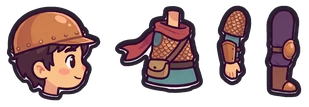
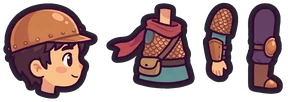
Painted iron, frostsilver, inkstone and emberite armour
All six metals now have painted armour. Pieces are cut out along their
closed ink outline (keeps pale chainmail that matches the background
grey, drops borders, shadows and ghost blobs) and picked by the piece
holding each joint point, which now use whole-render coordinates. A
piece a set lacks falls back to tinting the plain part: the emberite
greaves until that leg is regenerated.

Claude-Session: https://claude.ai/code/session_011STHFHW1H3N9pF5E9tv6GM

Changed region(s): [[0.0, 0.0294, 1.0, 0.9706]]

diff --git a/index.html b/index.html
@@ -1119,15 +1119,19 @@ const PAINT={armor:{}};
 // player_parts_mask.webp marks what armour recolours (tunic, trousers and boots, helmet metal). Frames are 2x the 96x144 code frames.
 const RIG={head:[0,0,108,107,52.8,93.4],torso:[110,0,101,98,62.3,16.0],arm:[213,0,43,91,19.9,12.9],leg:[258,0,49,103,22.3,14.4],helm:[309,0,73,81,6.6,6.6]};
 // armor_<metal>.webp: that metal's set drawn on the character (head wearing the helmet, torso, arm, leg), same layout as RIG;
-// a slot whose metal has no painted set tints the plain parts instead
-const ARMOR_RIG={cu:{head:[0,0,107,107,50.9,93.1],torso:[109,0,100,99,65.2,16.6],arm:[211,0,46,91,25.6,14.2],leg:[259,0,48,103,23.9,15.0]},
-  au:{head:[0,0,111,123,65.2,108.7],torso:[113,0,100,99,64.2,16.8],arm:[215,0,45,91,25.4,14.7],leg:[262,0,53,103,25.7,15.6]}};
+// a piece whose metal has no painted version tints the plain part instead
+const ARMOR_RIG={cu:{head:[0,0,101,102,48.1,91.3],torso:[103,0,95,92,63.1,14.3],arm:[200,0,41,85,23.1,12.0],leg:[243,0,43,97,21.2,12.8]},
+  au:{head:[0,0,105,116,62.3,106.2],torso:[107,0,94,92,61.4,14.3],arm:[203,0,40,85,22.7,12.1],leg:[245,0,48,97,22.9,13.1]},
+  fe:{head:[0,0,94,110,42.1,99.6],torso:[96,0,95,92,61.4,13.6],arm:[193,0,37,84,23.6,11.9],leg:[232,0,47,97,22.4,12.7]},
+  fr:{head:[0,0,90,119,44.7,110.4],torso:[92,0,98,92,59.5,13.1],arm:[192,0,42,84,31.4,12.2],leg:[236,0,45,97,20.0,12.3]},
+  ik:{head:[0,0,90,102,44.5,92.2],torso:[92,0,97,92,63.5,12.7],arm:[191,0,41,85,22.4,12.0],leg:[234,0,46,97,22.6,12.6]},
+  em:{head:[0,0,88,118,42.1,108.1],torso:[90,0,80,92,48.1,13.6],arm:[172,0,42,85,24.9,12.0]}}; // no emberite leg yet
 function paintedPlayer(eq,met){const P=PAINT.player,c=mk(192*9,288),g=c.getContext('2d');
-  const piece=(k,slot,dark)=>{const m=slot&&met[slot],A=m&&PAINT.armor[m],r=(A?ARMOR_RIG[m]:RIG)[k],[x,y,w,h]=r,p=mk(w,h),q=p.getContext('2d');q.drawImage(A||P.img,x,y,w,h,0,0,w,h);
+  const piece=(k,slot,dark)=>{const m=slot&&met[slot],R=m&&PAINT.armor[m]&&ARMOR_RIG[m][k],A=R&&PAINT.armor[m],r=R||RIG[k],[x,y,w,h]=r,p=mk(w,h),q=p.getContext('2d');q.drawImage(A||P.img,x,y,w,h,0,0,w,h);
     const col=!A&&slot&&eq[slot];
     if(col){const t=mk(w,h),u=t.getContext('2d');u.drawImage(P.mask,x,y,w,h,0,0,w,h);u.globalCompositeOperation='source-in';u.fillStyle=col;u.fillRect(0,0,w,h);q.globalCompositeOperation='color';q.drawImage(t,0,0);}
     if(dark){q.globalCompositeOperation='source-atop';q.fillStyle='rgba(42,33,48,.28)';q.fillRect(0,0,w,h);}p.px=r[4];p.py=r[5];return p;};
-  const setHelm=met.helm&&PAINT.armor[met.helm];
+  const setHelm=met.helm&&PAINT.armor[met.helm]&&ARMOR_RIG[met.helm].head;
   const head=setHelm?piece('head','helm'):piece('head'),torso=piece('torso','mail'),armA=piece('arm','mail'),armB=piece('arm','mail',1),legA=piece('leg','greaves'),legB=piece('leg','greaves',1),helm=eq.helm&&!setHelm&&piece('helm','helm');
   const put=(t,p,k,x,y,a)=>{t.save();t.translate(x,y);t.rotate(a||0);t.drawImage(p,-p.px,-p.py);t.restore();};
   const fr=mk(192,288),h=fr.getContext('2d'),sil=mk(192,288),s=sil.getContext('2d');

diff --git a/tools/art/build.py b/tools/art/build.py
@@ -125,33 +125,43 @@ def tintmask(k, im):
     else: m = np.zeros_like(al)
     return m & al
 
-def inked_pieces(img, n=4, bw=30):
-    """Split a parts sheet into its n pieces, left to right, by filling each closed ink outline and adding the border back.
-    Ignores the blurry ghost blobs image models sometimes add, since they have no ink outline."""
-    a = np.asarray(img.convert('RGB')).astype(int)
-    bg = np.median(np.concatenate([a[0], a[-1], a[:, 0], a[:, -1]]), axis=0)
-    fg = np.abs(a - bg).max(axis=2) >= 16; ink = a.max(axis=2) < 90
+def inked_pieces(img, n=4, grow=2):
+    """Split a parts sheet into its n pieces, left to right, each cut out as exactly its filled ink outline (plus a couple of
+    pixels of anti-aliasing), since restyle() replaces everything outside the ink anyway. This ignores the render's border,
+    its soft shadows and the blurry ghost blobs image models sometimes add, and keeps pale fills (chainmail) that are close
+    to the background grey. Returns (piece, (x, y) of its top-left in the render)."""
+    a = np.asarray(img.convert('RGB')).astype(int); ink = a.max(axis=2) < 90
     core = ndimage.binary_fill_holes(ndimage.binary_closing(ink, iterations=2))
     lab, m = ndimage.label(core); sz = ndimage.sum(core, lab, range(1, m + 1)); out = []
     for k in np.argsort(-sz)[:n] + 1:
-        mask = ndimage.binary_fill_holes(ndimage.binary_dilation(lab == k, iterations=bw) & fg)
+        mask = ndimage.binary_dilation(lab == k, iterations=grow)
         ys, xs = np.where(mask); sl = (slice(ys.min(), ys.max() + 1), slice(xs.min(), xs.max() + 1))
-        out.append((xs.min(), Image.fromarray(np.dstack([a.astype(np.uint8), (mask * 255).astype(np.uint8)])[sl], 'RGBA')))
-    return [im for _, im in sorted(out, key=lambda t: t[0])]
+        out.append(((xs.min(), ys.min()), Image.fromarray(np.dstack([a.astype(np.uint8), (mask * 255).astype(np.uint8)])[sl], 'RGBA')))
+    return [(im, o) for o, im in sorted(out, key=lambda t: t[0][0])]
 
-# joint points per armour render, in its piece-local source px (neck base, neck top, shoulder, hip); a new render needs its own
-ARMOR_PIV = {'cu': {'head': (258, 505), 'torso': (356, 60), 'arm': (125, 50), 'leg': (114, 55)},
-             'au': {'head': (335, 585), 'torso': (343, 60), 'arm': (118, 50), 'leg': (117, 55)}}
-BASE_H = {'head': 669, 'torso': 608, 'arm': 553, 'leg': 643}  # base part heights in parts.png, so armour pieces match their size
+# joint points per armour render, in whole-render px (neck base, neck top, shoulder, hip); a new render needs its own
+ARMOR_PIV = {'cu': {'head': (331, 749), 'torso': (954, 371), 'arm': (1313, 368), 'leg': (1604, 354)},
+             'au': {'head': (369, 752), 'torso': (950, 371), 'arm': (1369, 383), 'leg': (1713, 375)},
+             'fe': {'head': (290, 760), 'torso': (945, 335), 'arm': (1378, 350), 'leg': (1680, 345)},
+             'fr': {'head': (375, 780), 'torso': (1000, 353), 'arm': (1440, 365), 'leg': (1678, 322)},
+             'ik': {'head': (350, 760), 'torso': (985, 360), 'arm': (1380, 375), 'leg': (1698, 360)},
+             'em': {'head': (372, 760), 'torso': (985, 350), 'arm': (1365, 350)}}  # emberite leg: the render's boot has no outline; regenerate it
+HEAD_FIX = {'fe': 1.15}  # renders that drew the head small for the torso
+BASE_H = {'head': 625, 'torso': 563, 'arm': 509, 'leg': 598}  # base part heights inside their ink outline in parts.png, so armour pieces match their size
 
 def armor(img, m):
     """armor_<m>.webp: helmeted head, torso, arm, leg (ink only, no tint mask); prints the ARMOR_RIG entry."""
-    x = 0; pieces = []; rows = []; ps = inked_pieces(img); st = PART_S * BASE_H['torso'] / ps[1].height
-    for k, im in zip(('head', 'torso', 'arm', 'leg'), ps):
-        s = st * 1.04 if k == 'head' else PART_S * BASE_H[k] / im.height  # heads by the torso's scale: crests and plumes vary in height
+    ks = [k for k in ('head', 'torso', 'arm', 'leg') if k in ARMOR_PIV[m]]  # a piece left out falls back to the tinted plain part
+    cand = inked_pieces(img, 8)
+    def owner(pt):  # the piece whose box holds this joint point (the leg can be bigger or smaller than a ghost blob)
+        return min(cand, key=lambda c: max(c[1][0] - pt[0], pt[0] - c[1][0] - c[0].width, c[1][1] - pt[1], pt[1] - c[1][1] - c[0].height))
+    ps = [owner(ARMOR_PIV[m][k]) for k in ks]
+    x = 0; pieces = []; rows = []; st = PART_S * BASE_H['torso'] / ps[1][0].height
+    for k, (im, (ox, oy)) in zip(ks, ps):
+        s = st * 1.04 * HEAD_FIX.get(m, 1) if k == 'head' else PART_S * BASE_H[k] / im.height  # heads by the torso's scale: crests and plumes vary in height
         im, pad = restyle(im, 120 / s, border=False)
         w, h = round(im.width * s), round(im.height * s); r = im.resize((w, h), Image.LANCZOS)
-        px, py = ARMOR_PIV[m][k]; pieces.append((r, x))
+        px, py = ARMOR_PIV[m][k]; px -= ox; py -= oy; pieces.append((r, x))
         rows.append(f"{k}:[{x},0,{w},{h},{round((px + pad) * s, 1)},{round((py + pad) * s, 1)}]"); x += w + 2
     out = Image.new('RGBA', (x, max(r.height for r, _ in pieces)), (0, 0, 0, 0))
     for r, x in pieces: out.alpha_composite(r, (x, 0))

diff --git a/CLAUDE.md b/CLAUDE.md
@@ -100,14 +100,14 @@ The game is moving characters, creatures and objects from code-drawn art to pain
 |---|---|---|
 | Title screen | `title.webp` | plain title overlay |
 | Player | `player_parts.webp`, `player_parts_mask.webp` | `drawHuman` player in `playerSheet()` |
-| Copper and gold armour (helmet, chainmail, greaves) | `armor_cu.webp`, `armor_au.webp` | tinted plain parts |
+| Armour, all six metals (helmet, chainmail, greaves) | `armor_cu/fe/au/fr/ik/em.webp` | tinted plain parts |
 | Fold Fox | `foldfox.webp` (2 frames) | `SHEETS.foldfox` |
 | Leafy tree canopies (bright and dark) | `trees.webp` | `C.canopy[0]`, `C.canopy[1]` |
 | Tree trunk (bark tile and root base) | `trunk.webp` | `C.trunk` cell (drawn wider, see below) |
 
 Still code-drawn, to be painted:
 
-- **Armour sets:** iron, frostsilver, inkstone, emberite (prompts in `tools/art/armor-prompts.txt`; until painted, these tint the plain parts).
+- **Armour:** the emberite greaves (its render's boot had no outline; prompts in `tools/art/armor-prompts.txt`). Until painted, a missing piece tints the plain part.
 - **Enemies:** Green Slime, Blue Slime, Paper Zombie, Watcher Eye, Cave Bat, Cardboard Knight, Crumple, Toadstool Lobber, Dune Fin, Shell Scarab, Sun Kite, Flurry, Snow Roller, Snowlet, Frost Puff, Ink Blot, Ink Squid, Ink Wisp, Quillfish, Cinder Bat, Ash Imp, Firecracker Imp, Ash Spider, Ink Wraith.
 - **Bosses:** King Slime, Great Crane, Inkwell Leviathan (head, body segment, tail), Charred Folio, The Unfolded (ink shrine).
 - **NPCs:** Guide, Painter, Nurse, Tinkerer, Merchant.
@@ -127,7 +127,7 @@ The owner has a Higgsfield Pro account connected as an MCP server (`mcp__Higgsfi
 - **Getting it in the game:** save under `assets/` as `.webp`. `paintArt(file, fn)` (right after `buildSheets()` at boot) loads an image and, once loaded, draws it over the code-drawn version: into the `SHEETS` canvas (then `SHEETS[k+'T'].needsUpdate=true`) for sprites, or into the atlas (`A`, then `atlasTex.needsUpdate=true`, and add every chunk to `dirty` if the mesh changes) for atlas cells. Match the frame layout the code expects (`STYLE.md` has the sizes); files can be 2x. `paintArt` skips images it can't read back, which is what happens when `index.html` is opened from `file://` (WebGL can't use them there), so that falls back to code art. `PAINT` holds flags and images for painted art that changes how things are drawn.
 - **Player:** `player_parts.webp` has side-view head, torso, arm, leg and helmet pieces; `paintedPlayer()` poses them with the same `POSES` angles as `drawHuman`, with the back arm and leg darkened, then adds one cream border round each frame. `RIG` holds each piece's rect and joint point. `player_parts_mask.webp` marks what armour recolours (tunic and sleeves for mail, trousers and boots for greaves, the helmet metal), using the canvas `color` blend; the helmet piece is only drawn when a helmet is equipped. Metals with a painted set (`armor_<metal>.webp`, rects in `ARMOR_RIG`, loaded into `PAINT.armor`) swap in their own pieces per slot instead: the helmet slot swaps the head for one wearing the helmet, chainmail swaps torso and arms, greaves swap the legs. Metal codes come from the item ids (`helmcu` → `cu`).
 - **Trees:** the painted trunk is drawn two tiles wide and behind the canopy (`PAINT.trunk` in the chunk mesh builder), from a free 128×192 corner of the atlas at (0, 768): the bark tile twice (the first copy is padding so filtering doesn't bleed other cells in), then the root base. Painted canopies are drawn a size up (5×5 tiles) when `PAINT.canopy` is set; the snowy pine keeps its code size.
-- **`tools/art/build.py <renders dir>`** rebuilds every painted asset from the source renders (download them from the Higgsfield project, named as in its `RENDERS`). It cuts out the background, then `restyle()` redraws the ink outline and cream border at the `STYLE.md` thickness in tiles as seen in game, so art scaled by different amounts still matches; player parts get ink only, and `paintedPlayer()` adds one border round the whole figure. It prints the `RIG` and `ARMOR_RIG` entries to paste into `index.html`. Armour renders (`armor-<metal>.png`) are split by `inked_pieces()`, which ignores the blurry ghost blobs image models sometimes add; each needs its joint points in `ARMOR_PIV`. Joint points and crop rows in it fit these particular renders; a new render needs its own numbers.
+- **`tools/art/build.py <renders dir>`** rebuilds every painted asset from the source renders (download them from the Higgsfield project, named as in its `RENDERS`). It cuts out the background, then `restyle()` redraws the ink outline and cream border at the `STYLE.md` thickness in tiles as seen in game, so art scaled by different amounts still matches; player parts get ink only, and `paintedPlayer()` adds one border round the whole figure. It prints the `RIG` and `ARMOR_RIG` entries to paste into `index.html`. Armour renders (`armor-<metal>.png`) are split by `inked_pieces()`, which cuts each piece out along its closed ink outline, so it ignores borders, shadows and the blurry ghost blobs image models sometimes add; a piece whose outline isn't closed can't be used. Each render needs its joint points in `ARMOR_PIV` (whole-render pixels; a piece left out falls back to tinting) and, if its head is drawn small or large for the torso, a `HEAD_FIX`. Joint points and crop rows in it fit these particular renders; a new render needs its own numbers.
 
 ## Testing
 
